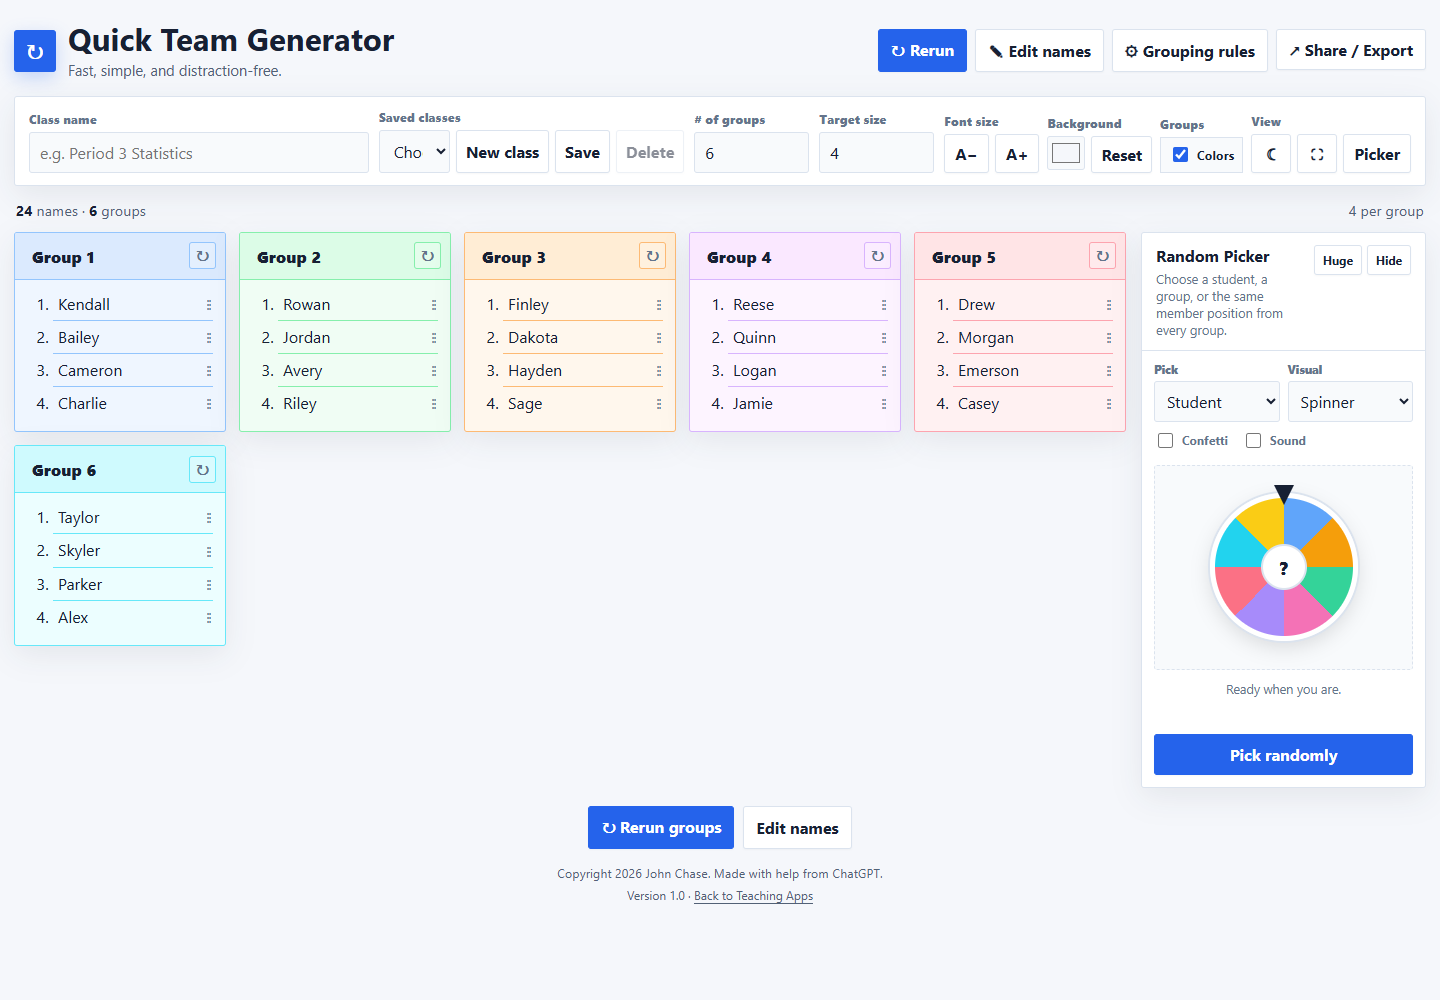
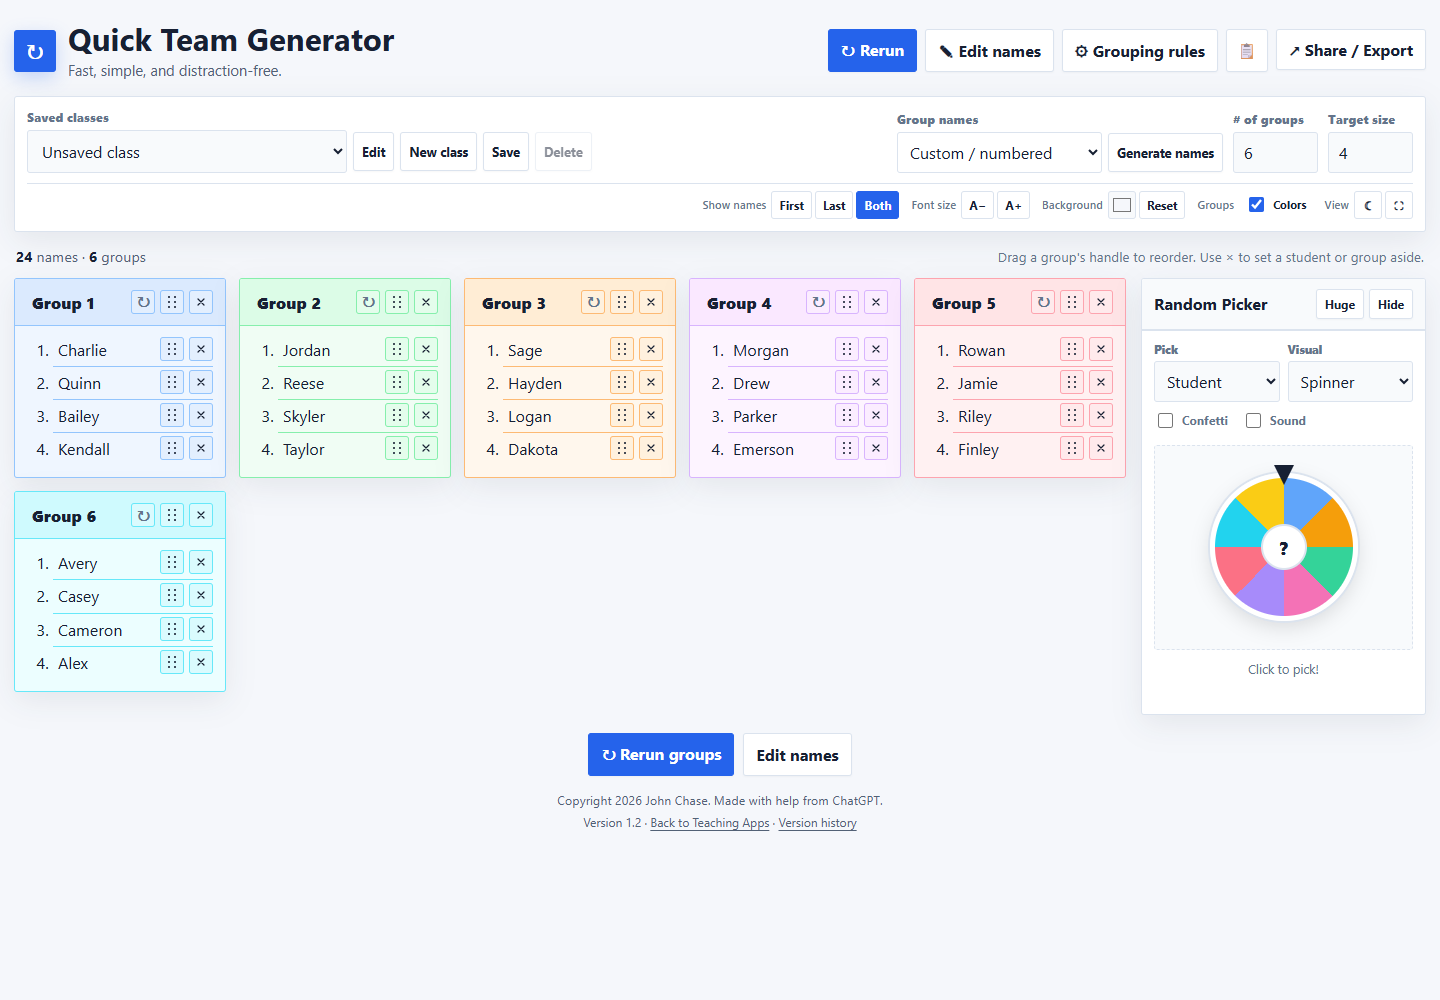
Release Surface Lab 1.0

diff --git a/index.html b/index.html
@@ -14,12 +14,13 @@
       <p>Interactive tools and activities for mathematics students.</p>
     </header>
     <section class="apps" aria-label="Teaching apps">
-      <a href="truth-table-master/"><img src="images/truth-table-screenshot.png" alt="" width="1440" height="1000"><span class="app-copy"><strong>Truth Table Master</strong><span>Practice logic, one truth at a time.</span></span></a>
-      <a href="transformation-quest/"><img src="images/transformations-screenshot.png" alt="" width="1440" height="1000"><span class="app-copy"><strong>Transformation Quest</strong><span>Explore how shapes move and change.</span></span></a>
-      <a href="logic-hoops/"><img src="images/logic-hoops-screenshot.png" alt="" width="1440" height="1000"><span class="app-copy"><strong>Logic Hoops</strong><span>Bring basketball to logic review.</span></span></a>
-      <a href="curve-lab/"><img src="images/curve-lab-screenshot.png" alt="" width="1440" height="1000"><span class="app-copy"><strong>Curve Lab</strong><span>Explore space curves and moving frames.</span></span></a>
-      <a href="class-team-generator/"><img src="images/teams-screenshot.png" alt="" width="1440" height="1000"><span class="app-copy"><strong>Class Team Generator</strong><span>Turn your class roster into teams.</span></span></a>
-      <a href="https://bubbletiles.com/"><img src="images/bubble-tiles-screenshot.png" alt="" width="1440" height="1000"><span class="app-copy"><strong>Bubble Tiles</strong><span>Build colorful tilings and explore geometry.</span><span class="external-label">bubbletiles.com ↗</span></span></a>
+      <a href="curve-lab/"><img src="images/curve-lab-screenshot.png" alt="" width="1440" height="1000"><span class="app-copy"><strong>Curve Lab</strong><span>Explore space curves and moving frames.</span><span class="app-subject">Multivariable Calculus</span></span></a>
+      <a href="surface-lab/"><img src="images/surface-lab-screenshot.png" alt="" width="1440" height="1000"><span class="app-copy"><strong>Surface Lab</strong><span>Explore surfaces, gradients, and tangent planes.</span><span class="app-subject">Multivariable Calculus</span></span></a>
+      <a href="truth-table-master/"><img src="images/truth-table-screenshot.png" alt="" width="1440" height="1000"><span class="app-copy"><strong>Truth Table Master</strong><span>Practice logic, one truth at a time.</span><span class="app-subject">Logic</span></span></a>
+      <a href="logic-hoops/"><img src="images/logic-hoops-screenshot.png" alt="" width="1440" height="1000"><span class="app-copy"><strong>Logic Hoops</strong><span>Bring basketball to logic review.</span><span class="app-subject">Logic</span></span></a>
+      <a href="transformation-quest/"><img src="images/transformations-screenshot.png" alt="" width="1440" height="1000"><span class="app-copy"><strong>Transformation Quest</strong><span>Explore how shapes move and change.</span><span class="app-subject">Geometry</span></span></a>
+      <a href="https://bubbletiles.com/"><img src="images/bubble-tiles-screenshot.png" alt="" width="1440" height="1000"><span class="app-copy"><strong>Bubble Tiles</strong><span>Build colorful tilings and explore geometry.</span><span class="app-subject">Geometry</span></span></a>
+      <a href="class-team-generator/"><img src="images/teams-screenshot.png" alt="" width="1440" height="1000"><span class="app-copy"><strong>Class Team Generator</strong><span>Turn your class roster into teams.</span><span class="app-subject">Classroom Tools</span></span></a>
     </section>
     <div class="about">
       <section aria-labelledby="about-heading">

diff --git a/styles.css b/styles.css
@@ -57,21 +57,20 @@ p {
 .apps a:hover {
   border-color: #234e91;
   background: #edf4ff;
-  text-decoration: underline;
-  text-underline-offset: 4px;
+  text-decoration: none;
 }
 
 .apps a:focus-visible {
   outline: 3px solid #234e91;
   outline-offset: 4px;
-  text-decoration: underline;
-  text-underline-offset: 4px;
+  text-decoration: none;
 }
 
 .eyebrow { margin-bottom: 14px; color: #6440ba; font-size: .8rem; font-weight: 750; letter-spacing: .12em; text-transform: uppercase; }
 .apps img { display: block; width: 100%; height: auto; aspect-ratio: 36 / 25; object-fit: contain; border-bottom: 1px solid #d7e0ee; }
 .app-copy { display: flex; flex-direction: column; gap: 8px; padding: 20px; }
 .app-copy > span { color: #52627a; font-size: .95rem; font-weight: 400; }
+.app-copy > .app-subject { align-self: flex-start; padding: 3px 9px; border-radius: 6px; background: #edf2fa; color: #36527a; font-size: .75rem; font-weight: 650; }
 .about { display: grid; grid-template-columns: repeat(2, minmax(0, 1fr)); gap: 36px; margin-top: 48px; padding-top: 28px; border-top: 1px solid #d7e0ee; }
 h2 { margin: 0 0 12px; font-size: 1.5rem; }
 .about p { max-width: 70ch; font-size: 1rem; }
